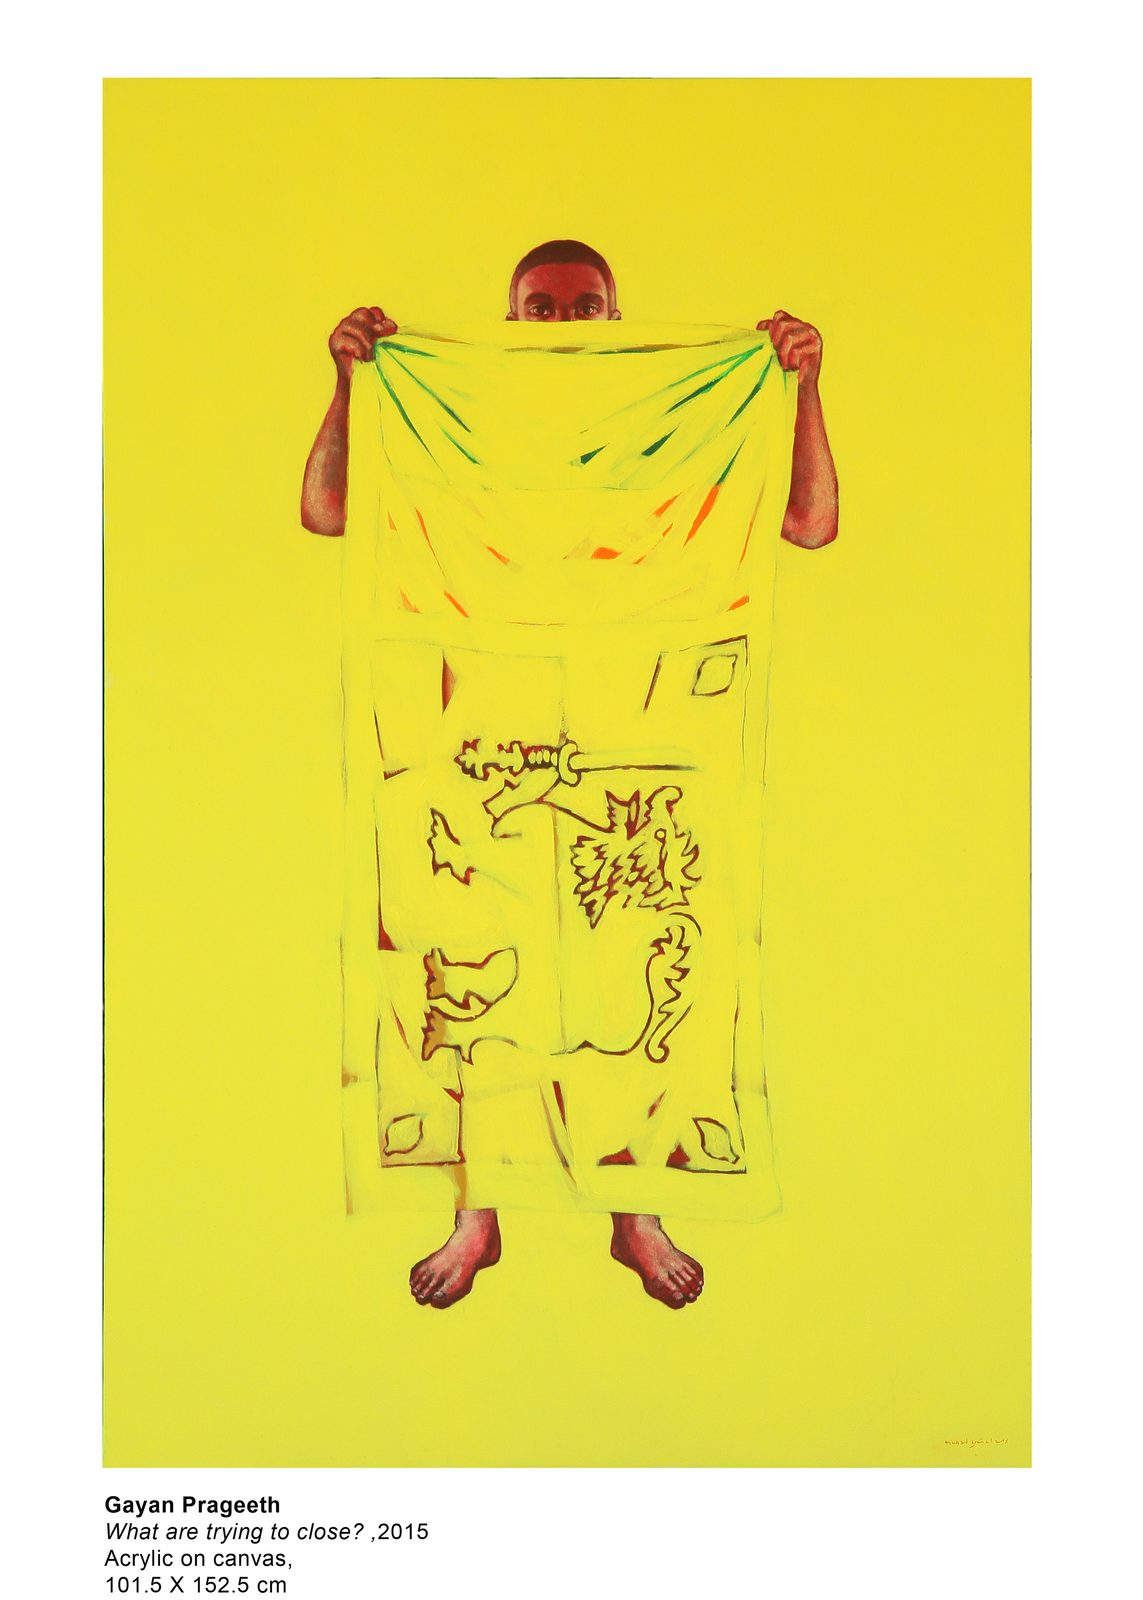
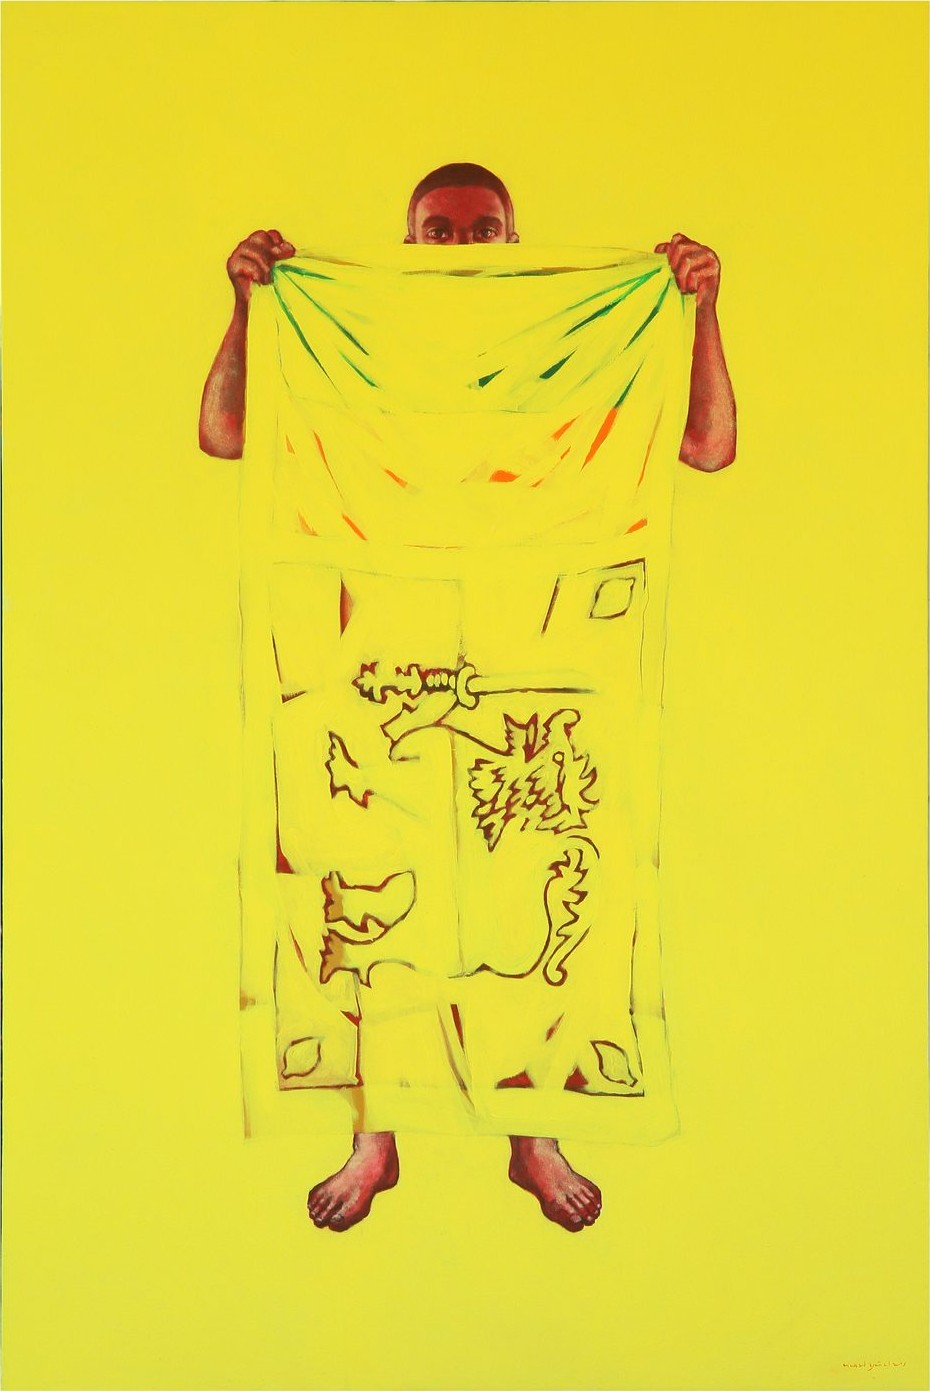
Extract image details and crop text/white areas from Extravagance and Since 1983 images
- Add artwork titles and details (medium, dimensions) under each image
  in both Extravagance and Since 1983 sections
- Crop text captions and unnecessary white borders from all 14 images
- Support multiline details with line breaks in renderer

diff --git a/site-data.js b/site-data.js
@@ -134,9 +134,9 @@ const siteData = {
       columns: 3,
       aspectRatio: "5 / 7",
       images: [
-        { src: "assets/images/painting 02 copy.jpg.jpeg", alt: "" },
-        { src: "assets/images/painting 05 copy.jpg.jpeg", alt: "" },
-        { src: "assets/images/painting 06 copy.jpg.jpeg", alt: "" }
+        { src: "assets/images/painting 02 copy.jpg.jpeg", alt: "", title: "What are trying to close?, 2015", details: "Acrylic on canvas\n101.5 X 152.5 cm" },
+        { src: "assets/images/painting 05 copy.jpg.jpeg", alt: "", title: "Diya-wanna?, 2015", details: "Acrylic on canvas\n122 X 145 cm" },
+        { src: "assets/images/painting 06 copy.jpg.jpeg", alt: "", title: "Primrose path II, 2015", details: "Acrylic on canvas\n125.5 X 145.5 cm" }
       ]
     },
 
@@ -146,9 +146,9 @@ const siteData = {
       columns: 3,
       aspectRatio: "5 / 7",
       images: [
-        { src: "assets/images/painting 07 copy.jpg.jpeg", alt: "" },
-        { src: "assets/images/painting 11.jpg.jpeg", alt: "" },
-        { src: "assets/images/painting 12.jpg.jpeg", alt: "" }
+        { src: "assets/images/painting 07 copy.jpg.jpeg", alt: "", title: "Passion, 2015", details: "Acrylic on canvas\n122 X 145 cm" },
+        { src: "assets/images/painting 11.jpg.jpeg", alt: "", title: "Love and passion, 2015", details: "Acrylic on canvas\n122 X 140 cm" },
+        { src: "assets/images/painting 12.jpg.jpeg", alt: "", title: "Reflections of passion, 2015", details: "Acrylic on canvas\n122 X 140 cm" }
       ]
     },
 
@@ -159,7 +159,7 @@ const siteData = {
       columns: 1,
       aspectRatio: "10 / 7",
       images: [
-        { src: "assets/images/painting 10 copy.jpg.jpeg", alt: "" }
+        { src: "assets/images/painting 10 copy.jpg.jpeg", alt: "", title: "Floting rock, 2015", details: "Acrylic on canvas\n244 X 122cm" }
       ]
     },
 
@@ -186,8 +186,8 @@ const siteData = {
       columns: 2,
       aspectRatio: "4 / 5",
       images: [
-        { src: "assets/images/1.jpg.jpeg", alt: "" },
-        { src: "assets/images/2.jpg.jpeg", alt: "" }
+        { src: "assets/images/1.jpg.jpeg", alt: "", title: "Since 1983, 2016", details: "Mixed media on canvas\n140 X 117 cm" },
+        { src: "assets/images/2.jpg.jpeg", alt: "", title: "Since 1983, 2016", details: "Mixed media on canvas\n92 X 92 cm" }
       ]
     },
 
@@ -198,9 +198,9 @@ const siteData = {
       columns: 3,
       aspectRatio: "4 / 5",
       images: [
-        { src: "assets/images/10.jpg.jpeg", alt: "" },
-        { src: "assets/images/12.jpg.jpeg", alt: "" },
-        { src: "assets/images/13.jpg.jpeg", alt: "" }
+        { src: "assets/images/10.jpg.jpeg", alt: "", title: "Since 1983, 2016", details: "Mixed media on steel bucket\n43X33X28 cm" },
+        { src: "assets/images/12.jpg.jpeg", alt: "", title: "Since 1983, 2016", details: "Mixed media on steel bucket\n40X32X25 cm" },
+        { src: "assets/images/13.jpg.jpeg", alt: "", title: "Since 1983, 2016", details: "Mixed media on steel bucket\n38X30X23 cm" }
       ]
     },
 
@@ -211,7 +211,7 @@ const siteData = {
       columns: 1,
       aspectRatio: "4 / 5",
       images: [
-        { src: "assets/images/15.jpg.jpeg", alt: "", width: "45%" }
+        { src: "assets/images/15.jpg.jpeg", alt: "", width: "45%", title: "Since 1983, 2016", details: "Mixed media on linen canvas\n122X90 cm" }
       ]
     },
 
@@ -222,7 +222,7 @@ const siteData = {
       columns: 1,
       aspectRatio: "4 / 5",
       images: [
-        { src: "assets/images/16.jpg.jpeg", alt: "" }
+        { src: "assets/images/16.jpg.jpeg", alt: "", title: "Since 1983, 2016", details: "Mixed media on canvas\n150X244cm" }
       ]
     },
 
